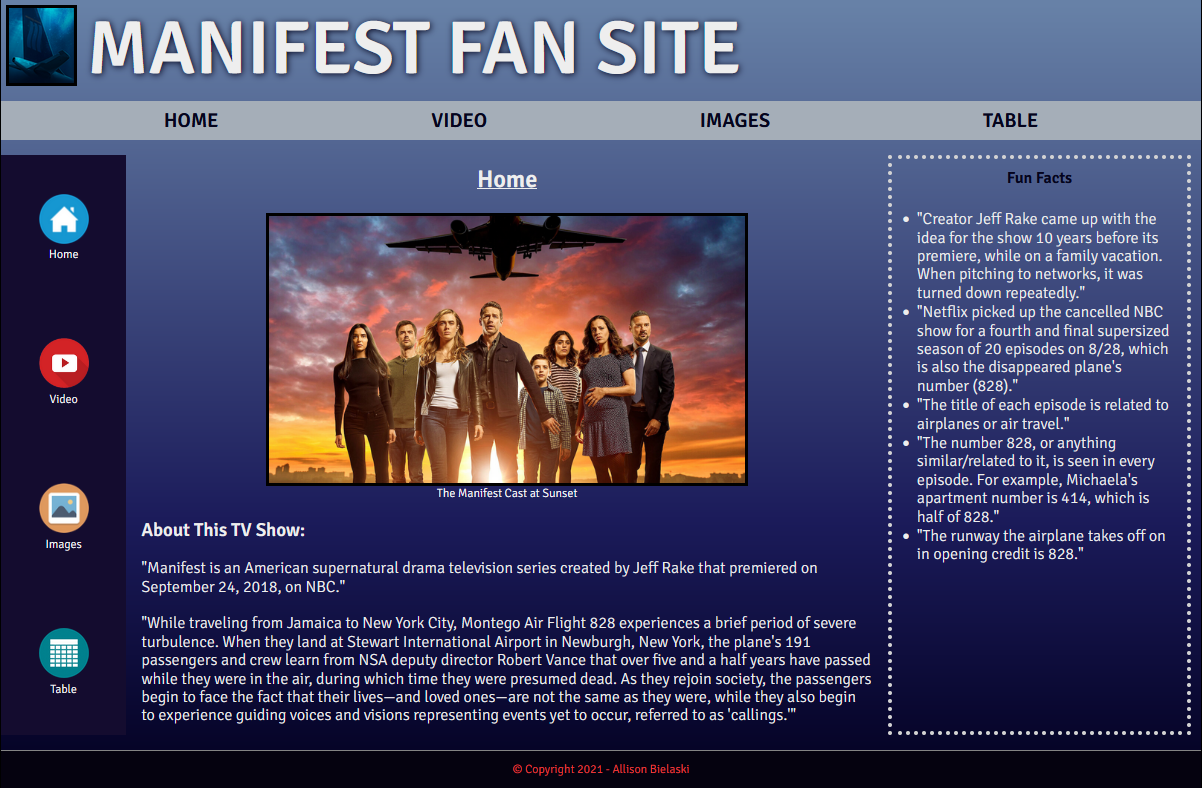
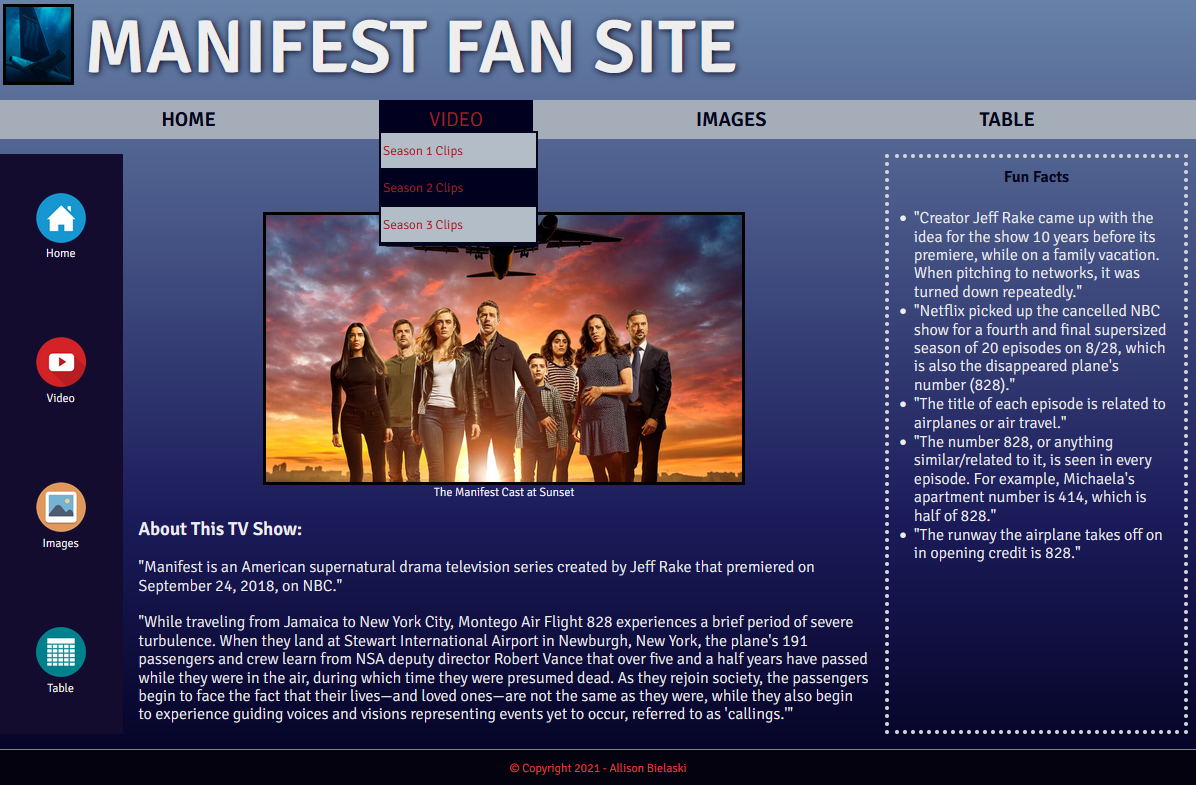
update

diff --git a/designs.html b/designs.html
@@ -39,18 +39,22 @@
     </header>
 
     <nav>
-        <div class="links"> <a href = "index.html"> Back to Home Page </a> </div>
-        <div class="links"> <a href = "coding.html"> Programming Samples </a> </div>  
+        <a href = "index.html"> <div class="links"> Back to Home Page </div>  </a> 
+        <a href = "coding.html"> <div class="links"> Programming Samples </div>  </a> 
     </nav>
     
     <main>  <!-- delve into my reasoning for the designs-->
         <div id = "div1">
 
-            <h2> Prototyped Mobile App Game Design 1 </h2>
+            <h2> Prototyped Mobile App Game Design 1 - Selkie Quest </h2>
 
             <p> 
-                This was a group project in which we had to create a game related to Selkies.  The two use cases we chose to develop further
-                were purchasing a card package in the store and the single player story mode.  I volunteered to design the prototypes, as shown below. 
+                In this project, my group needed to create a game related to Selkies (an ancient Irish mythological creature that can 
+                shift from seal to human by shedding their skin when they leave the sea).  Because Selkie’s are charming and hardworking,
+                the family who the Selkie was living with moved its sealskin across town to keep the Selkie from going back to the sea.  The Selkie must battle opponents
+                along the way to get it back but can enlist the help of other mythological creatures (that the player has in their card deck).  The screen prototypes below 
+                were designed by me and are for the use cases: purchasing a card package & playing the single player story mode.  My inspiration behind this design was a blue 
+                water background for the seal, the gold border for ancient mythology, and the land is an image of Ireland because it was ancient *Irish* mythology.
                 <br> [Course: User Experience; Created Via: Justinmind Prototyper Application] 
             </p>
             
@@ -72,11 +76,11 @@
 
         <div>
             
-            <h2> Prototyped Mobile App Game Design 2 </h2>
+            <h2> Prototyped Mobile App Game Design 2 - Turn Up the Heat! </h2>
 
             <p> 
-                This prototype was developed for the use case "take turns guessing the other player's target" in a telepathic game where
-                the loser's mind becomes heated and is blown up.
+                This prototype was developed for a telepathic game called "Turn Up the Heat!" In this use case, one player chooses a fish and the other player
+                has to try and guess the same fish/target.  Each time they are wrong, their brain heats up and once the match is over, the loser's mind is blown up.
                 <br> [Course: User Experience; Created Via: Justinmind Prototyper Application] 
             </p>
             
@@ -85,11 +89,11 @@
 
         <div>
             
-            <h2> Prototyped Mobile App Design </h2>
+            <h2> Prototyped Mobile App Design - Change-It-Up </h2>
 
             <p> 
-                My design for an application in which users can upload pictures of their clothes and put outfits together.  The app will generate outfit
-                suggestions to remove the morning stress of trying to think of something new to wear.
+                Below is my design for an application in which users can upload pictures of their clothes and put outfits together.  The app keeps track of when 
+                something was worn last and will generate outfit suggestions that haven't been worn in a while (based on the weather) to remove the morning stress of trying to think of something new to wear.
                 <br> [Course: User Experience; Created Via: Justinmind Prototyper Application] 
             </p>
             
@@ -106,7 +110,8 @@
             <h2> Graphic Illustrations for a Children's Book </h2>
 
             <p> 
-                This children's book was written and illustrated by me using the curvature pen tool, the brush tool, the grain effect/filter, gradients, etc.
+                This children's book about a fish getting scared and seeking therapy was written and illustrated by me.  The images were created using the curvature pen tool, 
+                the brush tool, effects/filters, gradients, etc.
                 <br> [Course: Graphic Techniques for Illustration; Created Via: Adobe Illustrator] 
             </p>
             
@@ -120,10 +125,11 @@
 
         <div>
             
-            <h2> Website Advertisement </h2>
+            <h2> Website Advertisement for Hot Chocolate </h2>
 
             <p> 
-                A website poster for a new type of hot chocolate (the theme given to us).
+                A website poster for a new type of 'hot chocolate' (the theme given to us). I included an image with a frothy texture, a fireplace background, and a snow sprinkle effect
+                to encourage the viewer to think of that warm feeling they get when drinking hot chocolate by the fireplace on a cold, snowy night.
                 <br> [Course: Graphic Techniques for Illustration; Created Via: Adobe Photoshop] 
             </p>
             
@@ -132,10 +138,11 @@
 
         <div>
             
-            <h2> Business Advertisement </h2>
+            <h2> Business Advertisement for Salon Hair Colouring </h2>
 
             <p> 
-                An advertisement to emphasize the service of hair colouring/dye at a salon, created with the image trace function in Illustrator.
+                An advertisement for the service of hair colouring/dye at a salon.  I took a normal portrait of a girl and used the image trace function in Illustrator, set to black and
+                white.  This removed the body and allowed me to draw focus to the hair and segment the image to colour individual strands.
                 <br> [Course: Graphic Techniques for Illustration; Created Via: Adobe Illustrator] 
             </p>
             
@@ -144,10 +151,10 @@
 
         <div>
                         
-            <h2> Product/Brand Advertisement </h2>
+            <h2> Product/Brand Advertisement for Lipstick </h2>
 
             <p> 
-                A poster for a lipstick brand, utilizing the mosaic effect.
+                A poster for a lipstick brand, utilizing the mosaic effect of many smaller images overlaying a bigger one.
                 <br> [Course: Graphic Techniques for Illustration; Created Via: Adobe Photoshop] 
             </p>
             
@@ -159,7 +166,9 @@
             <h2> Graphic Illustration for Preserving the Ocean </h2>
 
             <p> 
-                An illustration created by me using the curvature pen tool, the image trace function on an Earth image, and a clipping mask.
+                An illustration created by me in which the lifejacket is around the ocean to signify that we need to protect it.  Since the main theme was the ocean,
+                I used the image trace function to separate the land segments and then created a clipping mask to display fishes underneath the ocean in place of the land.
+                I drew the lifejacket myself using the curvature tool.
                 <br> [Course: Graphic Techniques for Illustration; Created Via: Adobe Illustrator & Photoshop] 
             </p>
             
@@ -168,7 +177,7 @@
 
         <div>
                         
-            <h2> Image Trace in Adobe Illustrator </h2>
+            <h2> Image Trace of Owl Photo in Adobe Illustrator </h2>
 
             <p> 
                 This photo of an owl in the forest was image traced and recoloured in Illustrator to give this dark, enchanted/mystical abstract vibe. 
@@ -180,10 +189,11 @@
 
         <div>
                         
-            <h2> Fansite </h2>
+            <h2> Fansite for the TV Show Manifest </h2>
 
             <p>
-                After being given the layout, I designed this fansite below which is also responsive.
+                After being given the general layout, I designed this fansite below to demonstrate grids, links, two-tiered navigation menus, adding videos, 
+                adding images, creating tables, responsiveness, and more.
                 <br> [Course: Web Foundations; Created Via: Visual Studio Code] 
             </p>
             

diff --git a/coding.html b/coding.html
@@ -39,24 +39,68 @@
     </header>
 
     <nav>
-        <div class="links"> <a href = "index.html"> Back to Home Page </a> </div>
-        <div class="links"> <a href = "designs.html"> Design Samples </a> </div>  
+        <a href = "index.html"> <div class="links"> Back to Home Page </div>  </a> 
+        <a href = "designs.html"> <div class="links"> Design Samples </div>  </a> 
     </nav>
     
     <main>
-        <div id = "div1">
 
-            <h2> ASP.Net Core MVC - Self-Validating Model Screenshot </h2>
+        <div>
+                        
+            <h2> JavaScript Client Side Assignment Walkthrough </h2>
             
-            <img class = "widthLimit" src="images/aspValidations.PNG">
-
+            <video controls width="1200px" poster="images/garageWave1.png">
+                <source src="videos/Assignment 2 Video.mp4" type="video/mp4">
+                <p>Sorry, this browser does not support videos.</p>
+            </video>
         </div>
+
+        <div>
+                        
+            <h2> JavaScript Server Side & MongoDB Assignment Walkthrough </h2>
+            
+            <video controls width="1200px" poster="images/clothing1.png">
+                <source src="videos/Assignment 4 Video.mp4" type="video/mp4">
+                <p>Sorry, this browser does not support videos.</p>
+            </video>
+        </div>
+
+        <div>
+                        
+            <h2> JavaScript Animation of a Rocket </h2>
+            
+            <video controls width="1200px" poster="images/rocket.png">
+                <source src="videos/rocket2.mp4" type="video/mp4">
+                <p>Sorry, this browser does not support videos.</p>
+            </video>
+        </div>
+
+        <div id="video">
+                        
+            <h2> MonoGame Video Demonstration - Easter Egg Catch </h2>
+
+            <video controls width="1200px" poster="images/easter2.png">
+                <source src="videos/easterGame.mp4" type="video/mp4">
+                <p>Sorry, this browser does not support videos.</p>
+            </video>
+            
+        </div>
+
+
 
         <div>
             
             <h2> ASP.Net Core MVC - Controller/Filtering/Cookies/Sessions/Exceptions </h2>
             
             <img class = "" src="images/controller.PNG">
+        </div>
+
+        <div id = "div1">
+
+            <h2> ASP.Net Core MVC - Self-Validating Model Screenshot </h2>
+            
+            <img class = "widthLimit" src="images/aspValidations.PNG">
+
         </div>
 
         <div>
@@ -82,55 +126,15 @@
 
         </div>
 
-        
-
+        <!-- 
         <div>
             
             <h2> FILLER </h2>
             
             <img class = "" src="images/FILLER.png">
-        </div>
+        </div> -->
 
-        <div>
-                        
-            <h2> Rocket </h2>
-            
-            <video controls width="1000px">
-                <source src="videos/rocket2.mp4" type="video/mp4">
-                <p>Sorry, this browser does not support videos.</p>
-            </video>
-        </div>
-
-        <div>
-                        
-            <h2> JavaScript Client Side Assignment Walkthrough </h2>
-            
-            <video controls width="1000px">
-                <source src="videos/Assignment 2 Video.mp4" type="video/mp4">
-                <p>Sorry, this browser does not support videos.</p>
-            </video>
-        </div>
-
-        <div>
-                        
-            <h2> JavaScript Server Side & MongoDB Assignment Walkthrough </h2>
-            
-            <video controls width="1000px">
-                <source src="videos/Assignment 4 Video.mp4" type="video/mp4">
-                <p>Sorry, this browser does not support videos.</p>
-            </video>
-        </div>
-
-        <div id="video">
-                        
-            <h2> MonoGame Video </h2>
-
-            <video controls width="1000px">
-                <source src="videos/easterGame.mp4" type="video/mp4">
-                <p>Sorry, this browser does not support videos.</p>
-            </video>
-            
-        </div>
+        
     </main>
 
     <!--footer-->

diff --git a/index.html b/index.html
@@ -59,7 +59,7 @@
             <div id = "middle">
 
                 <nav>
-                    <div class="links"> <a href = "designs.html"> Design Samples </a> </div>
+                    <a href = "designs.html"> <div class="links"> Design Samples </div>  </a> 
                 </nav>
                 
 
@@ -70,7 +70,7 @@
                         <li> Detail-oriented </li>
                         <li> Passionate about quality </li>
                         <li> Ready and interested to learn </li>
-                        <li> Great organization </li>
+                        <li> Strong organizational skills </li>
                         <li> Perseverant </li>
                         <li> Typing speed – 60-70 WPM </li>
                         <li> Excellent with grammar/editing </li>
@@ -79,7 +79,7 @@
                 </div>
 
                 <nav>
-                    <div class="links"> <a href = "coding.html"> Programming Samples </a> </div> 
+                    <a href = "coding.html"> <div class="links"> Programming Samples </div>  </a> 
                 </nav>
             
             </div>

diff --git a/css/main.css b/css/main.css
@@ -60,12 +60,6 @@ nav a{
     text-decoration: none;
 }
 
-a:hover{
-    text-decoration: underline;
-    color: #3c1221;
-    font-size: x-large;
-}
-
 .links{
     min-width: 140px;
     background: rgb(192,192,192);
@@ -79,6 +73,12 @@ a:hover{
     display: flex;
     align-items: center;
     justify-content: center;
+}
+
+.links:hover{
+    background: rgb(184,182,182);
+    background: linear-gradient(180deg, rgba(184,182,182,1) 0%, rgba(159,158,158,1) 26%, rgba(114,109,109,1) 57%, rgba(64,63,63,1) 100%);
+    color: #3c1221;
 }
 
 
@@ -190,7 +190,7 @@ footer{
 /* ---------------------------- pictures/videos ---------------------------- */
 
 main p{
-    max-width: 1000px;
+    max-width: 1200px;
     margin: auto;
     margin-bottom: 20px;
 }

diff --git a/css/design.css b/css/design.css
@@ -24,7 +24,7 @@ header div{
 }
 
 img{
-    max-width: 90%;
+    max-width: 99%;
 }
 
 video{
